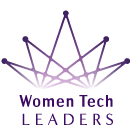
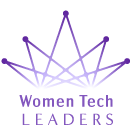
image cleanup

diff --git a/css/main.css b/css/main.css
@@ -1,10 +1,17 @@
 /*
-violet  #3E0C64
-lilac   #D9D0DC
+#3E0C64
+#D9D0DC
+
+crown:
+#5F259E
+#CABBFF
+text:
+#8357BE
+
 */
 html {
   height: 100%;
-  background: #d9cedc url(https://cdn.wtl.nyc/img/lightparticles.png) fixed center center no-repeat;
+  background: #d9cedc url(../img/lightparticles.png) fixed center center no-repeat;
 }
 
 ::selection {
@@ -51,7 +58,7 @@ header {
 }
 
 .logo {
-  background: url(https://cdn.wtl.nyc/img/color.png) 0 0 no-repeat;
+  background: url(../img/logo.svg) 0 0 no-repeat;
   display: block;
   width: 260px;
   height: 260px;
@@ -85,7 +92,7 @@ section {
 section:after {
   content: "";
   display: block;
-  background: url(https://cdn.wtl.nyc/img/fleur.svg) center center no-repeat;
+  background: url(../img/fleur.svg) center center no-repeat;
   width: 100%;
   height: 20px;
   margin-top: 45px;
